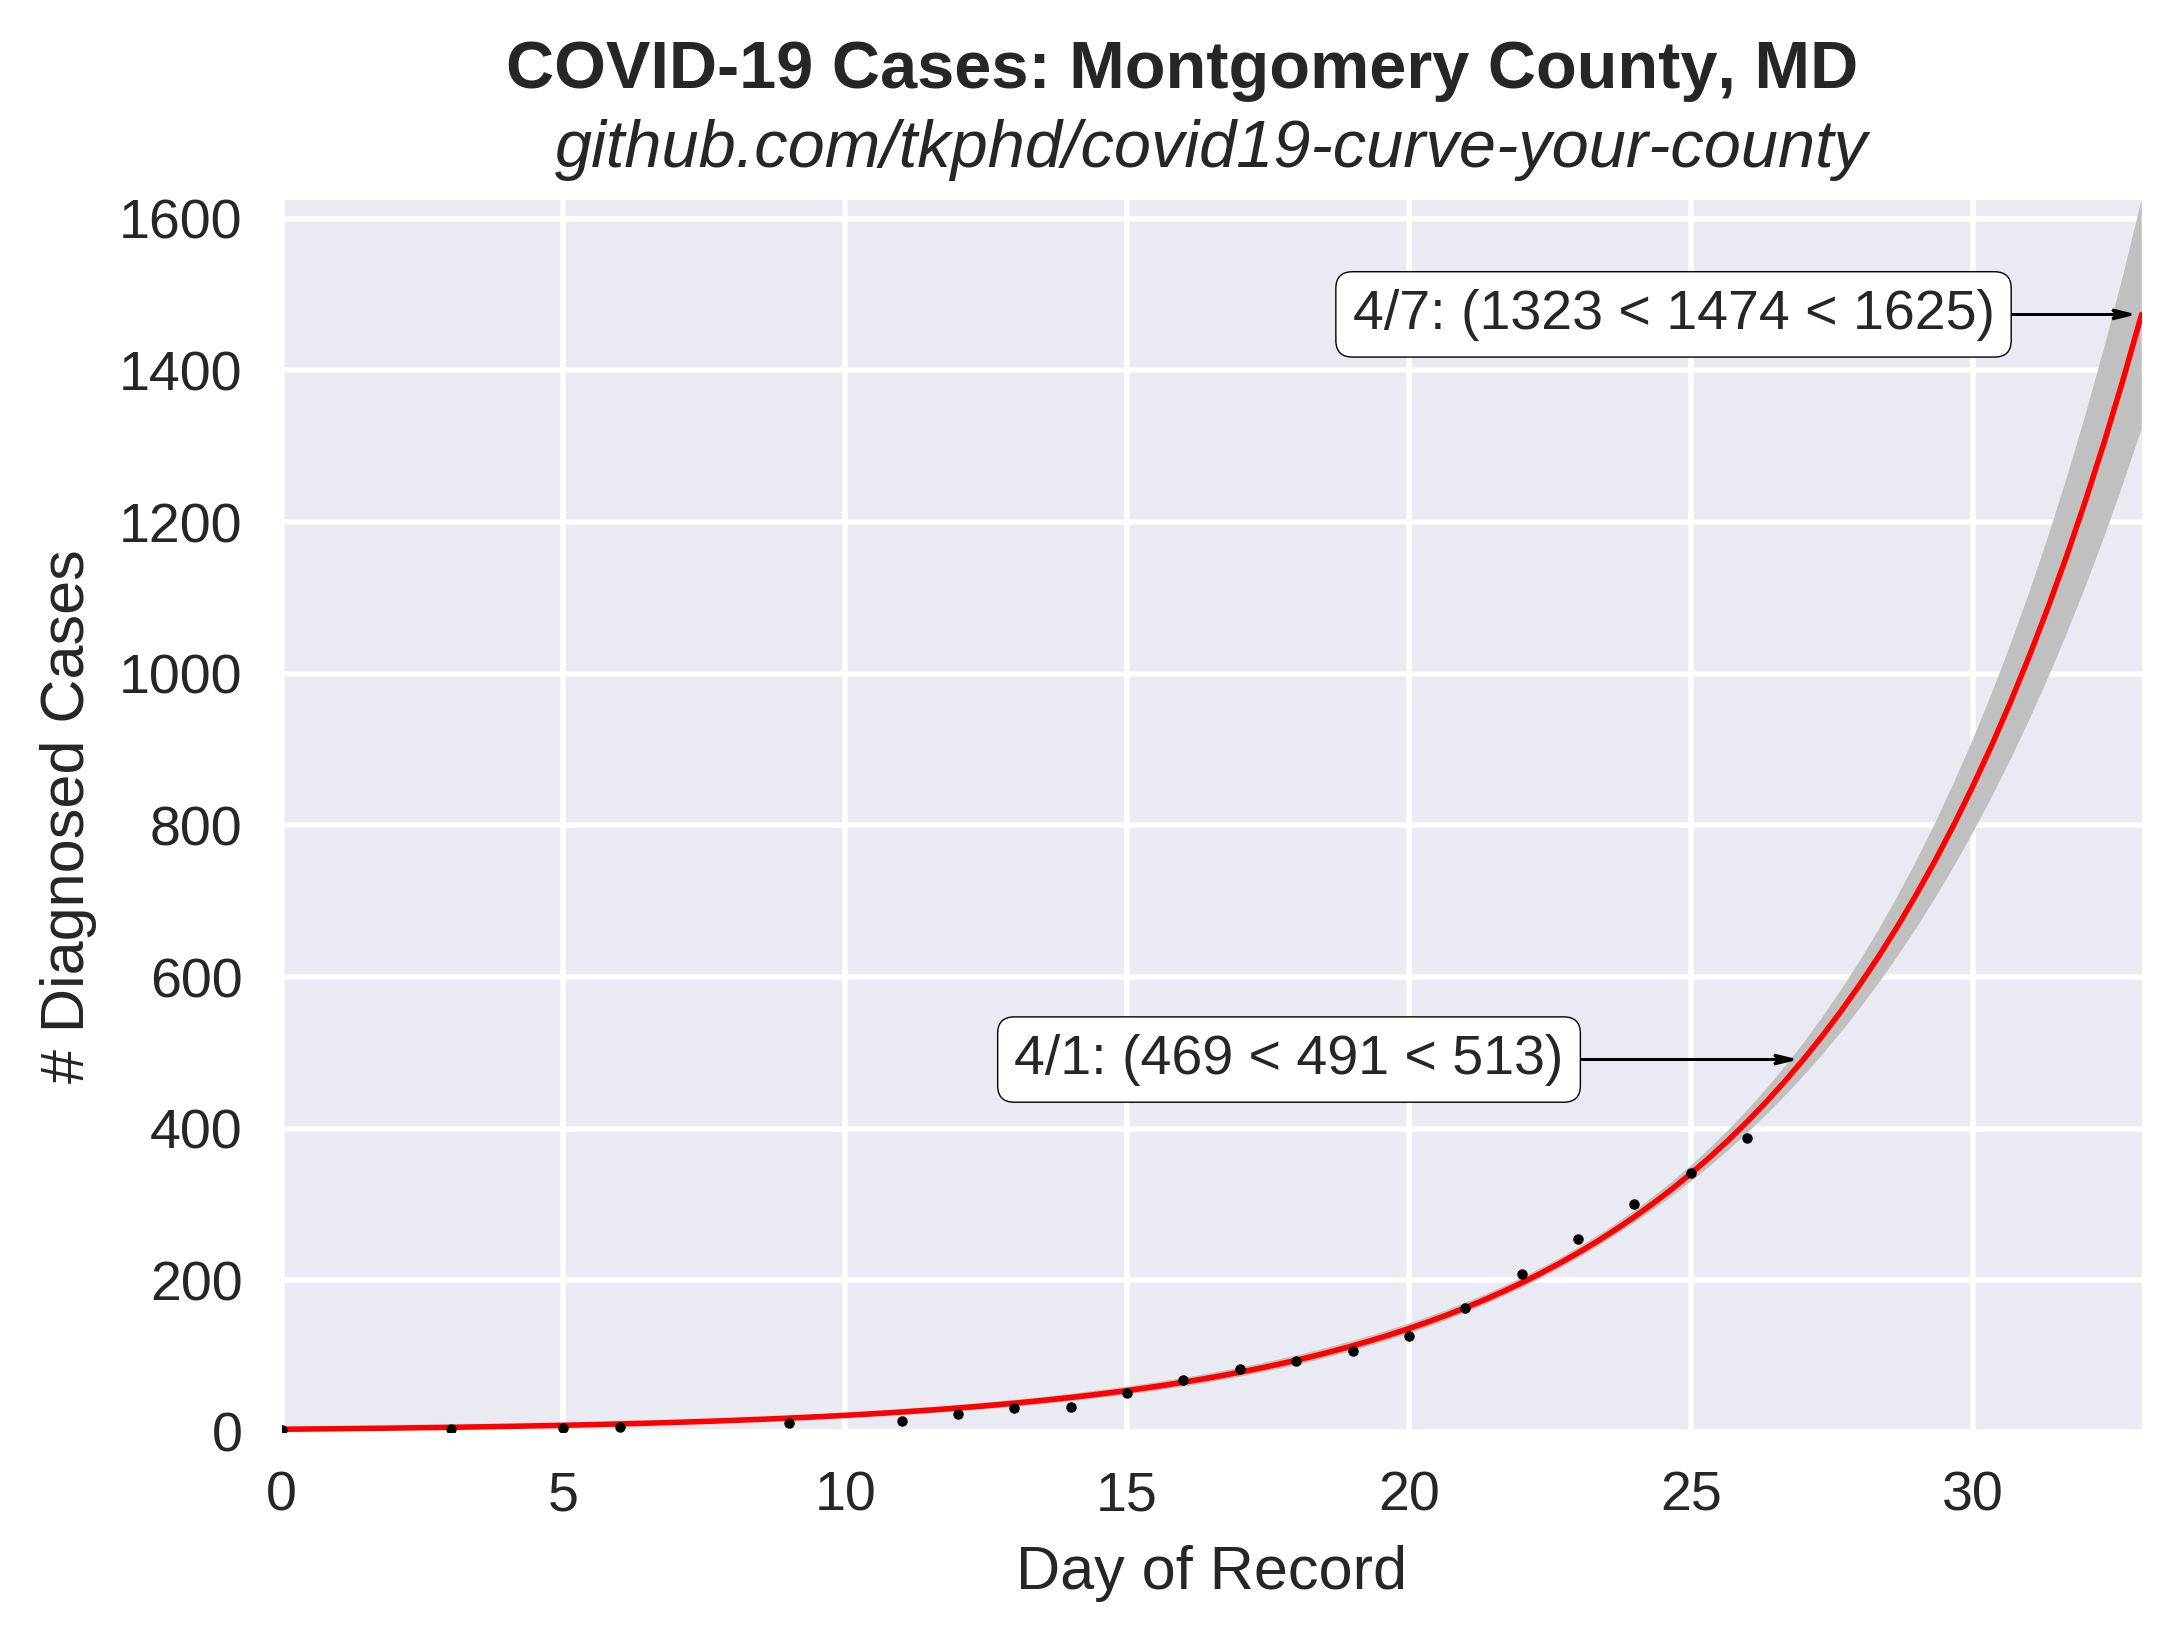
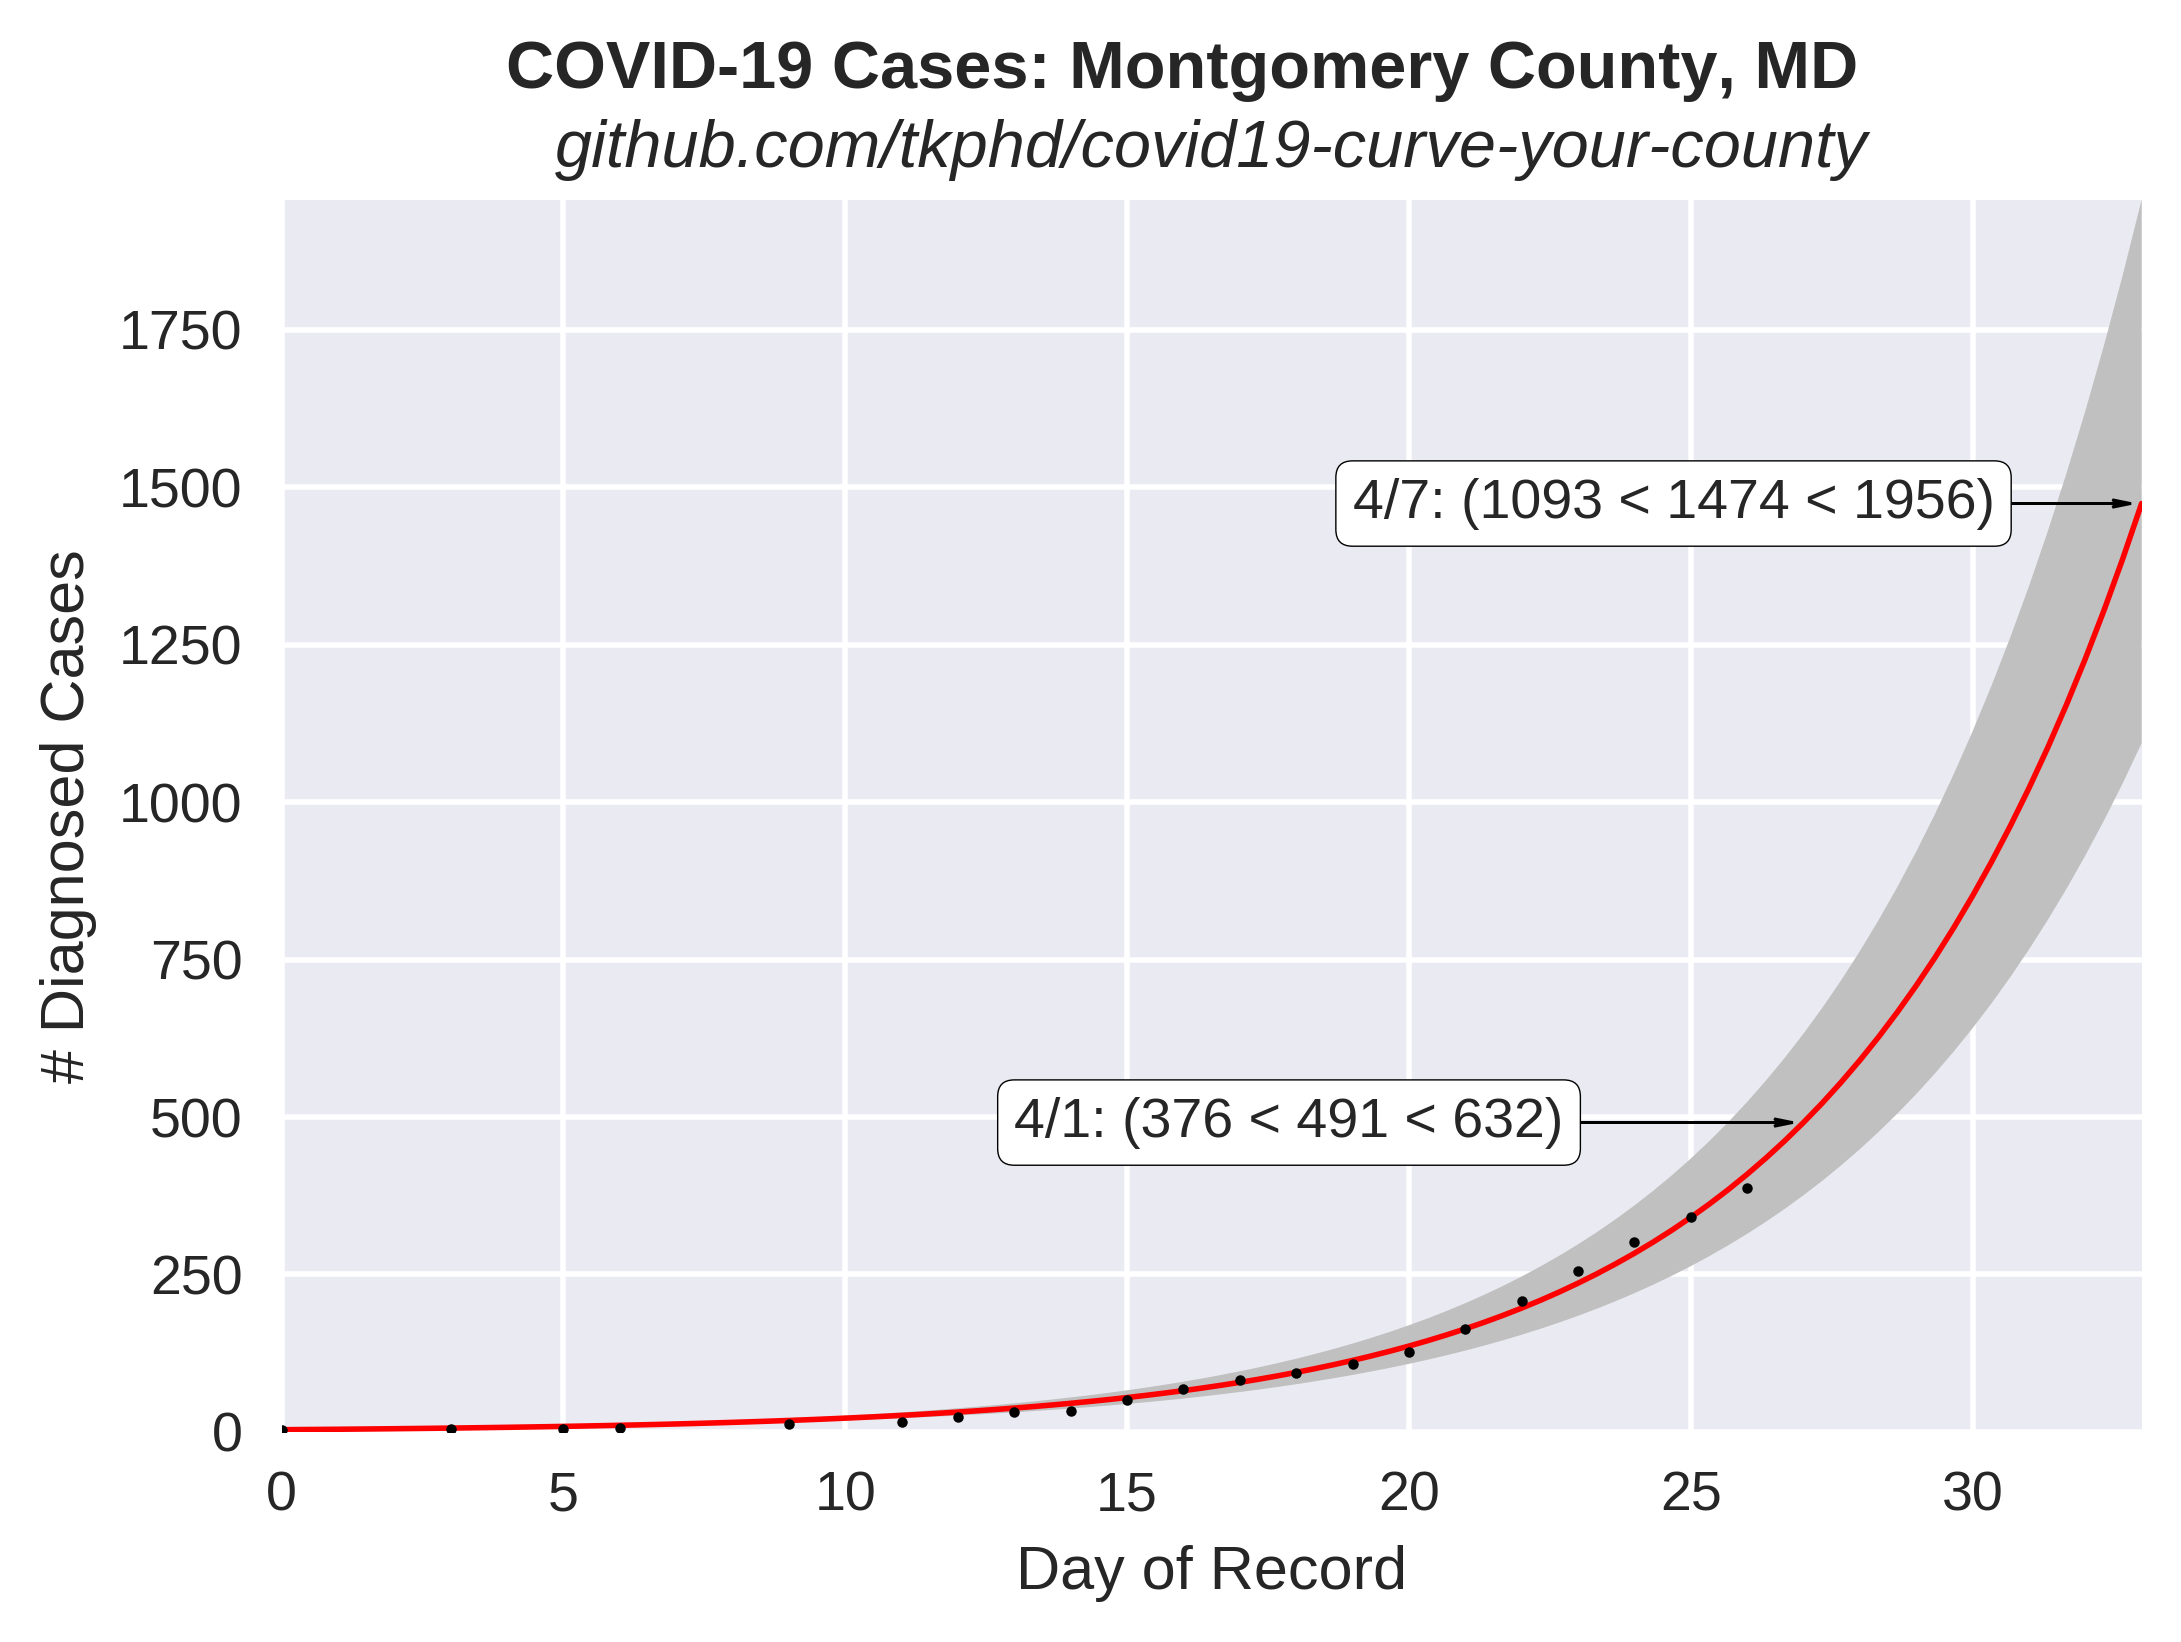
broader error band with SciPy, more closely based on @psteinb

diff --git a/exponential.py b/exponential.py
@@ -1,19 +1,21 @@
 # -*- coding: utf-8 -*-
-# Based on https://stackoverflow.com/questions/24633664/confidence-interval-for-exponential-curve-fit/37080916#37080916
 
 import matplotlib.pyplot as plt
 import numpy as np
 import pandas as pd
-from kapteyn import kmpfit
 from time import strptime
 from datetime import date
-from scipy.stats import t
+from scipy.optimize import curve_fit, least_squares
+from scipy.stats import describe, t
 from matplotlib import style
 style.use("seaborn")
 
-def model(p, x):
-    a, b = p
+def model(x, a, b):
     return a * (1 + b) ** x
+
+def jacobian(x, a, b):
+    return np.array([(1 + b) ** x,
+                     (a * x * (1 + b) ** x) / (1 + b)]).T
 
 
 fig = plt.figure(figsize=(6, 4))
@@ -41,15 +43,27 @@ plt.scatter(x, y, marker=".", s=10, color="k", zorder=10)
 
 # Levenburg-Marquardt Least-Squares Fit
 
-f = kmpfit.simplefit(model, [1, 1], x, y)
-a, b = f.params
+s = np.ones_like(x)
+popt, pcov = curve_fit(model, x, y, p0=[1,1], sigma=s, method="lm", jac=jacobian)
+perr = np.sqrt(np.diag(pcov))
+coef = describe(pcov)
+print("popt\n", popt)
+print("pcov\n", pcov)
+print("perr\n", perr)
+a, b = popt
 
 # Confidence Band: dfdp represents the partial derivatives of the model with respect to each parameter p (i.e., a and b)
 
 xhat = np.linspace(0, x[-1] + 7, 100)
-dfdp = [(1 + b) ** xhat, (a * xhat * (1 + b) ** xhat) / (1 + b)]
-level = 0.95
-yhat, upper, lower = f.confidence_band(xhat, dfdp, level, model)
+yhat = model(xhat, a, b)
+
+upr_a = a + perr[0]
+upr_b = b + perr[1]
+lwr_a = a - perr[0]
+lwr_b = b - perr[1]
+
+upper = model(xhat, upr_a, upr_b)
+lower = model(xhat, lwr_a, lwr_b)
 
 ix = np.argsort(xhat)
 plt.plot(xhat[ix], yhat[ix], c="red", lw=1, zorder=5)
@@ -60,21 +74,19 @@ plt.fill_between(
     xhat[ix], lower[ix], yhat[ix], edgecolor=None, facecolor="silver", zorder=1
 )
 
-# Plot Boundaries
-
-plt.xlim([0, xhat[-1]])
-plt.ylim([0, upper[-1]])
-
 # Predictions
+
+dx = 0.25
+dt = 14
 
 tomorrow = date.fromordinal(today + 1)
 nextWeek = date.fromordinal(today + 7)
 
 xhat = np.array([tomorrow.toordinal() - start, nextWeek.toordinal() - start])
-dfdp = [(1 + b) ** xhat, (a * xhat * (1 + b) ** xhat) / (1 + b)]
-yhat, upper, lower = f.confidence_band(xhat, dfdp, level, model)
-dx = 0.25
-dt = 14
+yhat = model(xhat, a, b)
+
+upper = model(xhat, upr_a, upr_b)
+lower = model(xhat, lwr_a, lwr_b)
 
 plt.text(
     xhat[0] - dt,
@@ -128,6 +140,11 @@ plt.arrow(
     linewidth=0.5,
     zorder=2,
 )
+
+# Plot Boundaries
+
+plt.xlim([0, xhat[-1]])
+plt.ylim([0, upper[-1]])
 
 # Save figure
 
